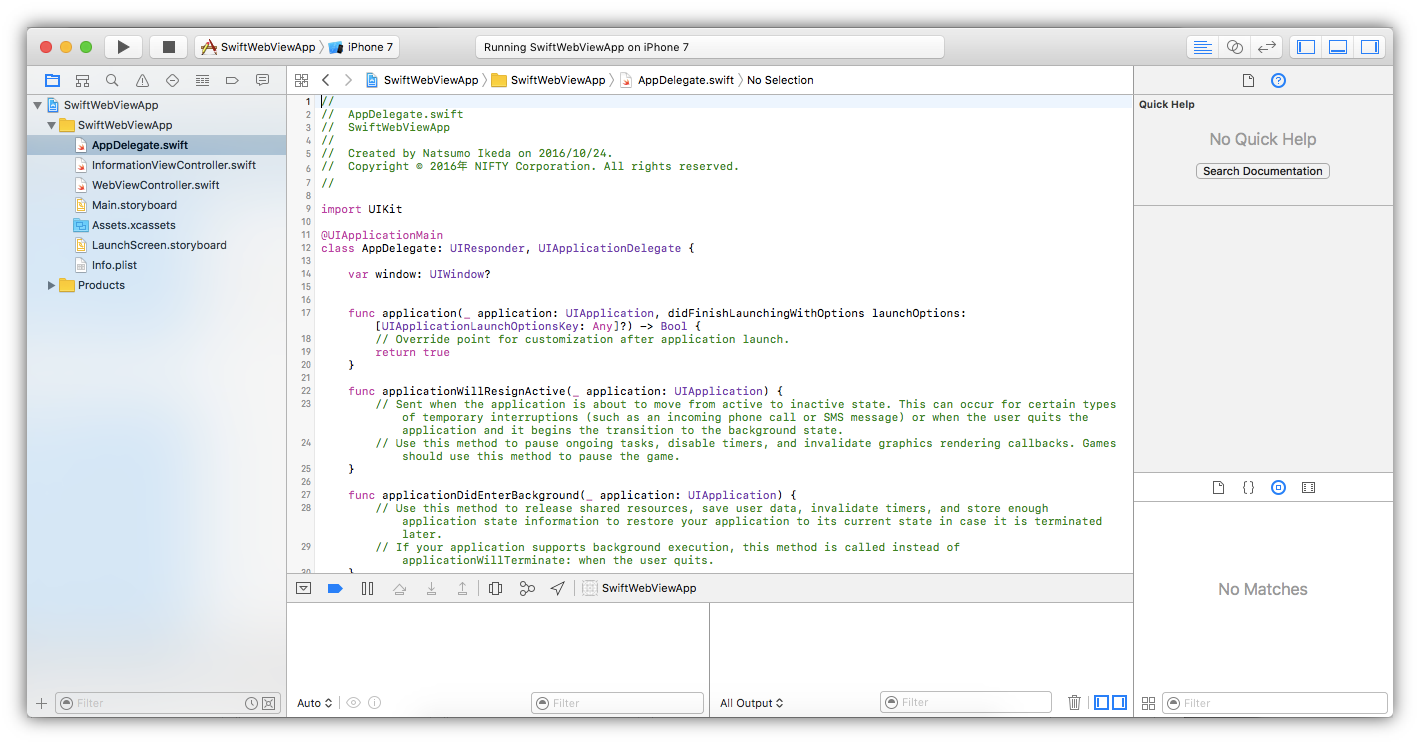
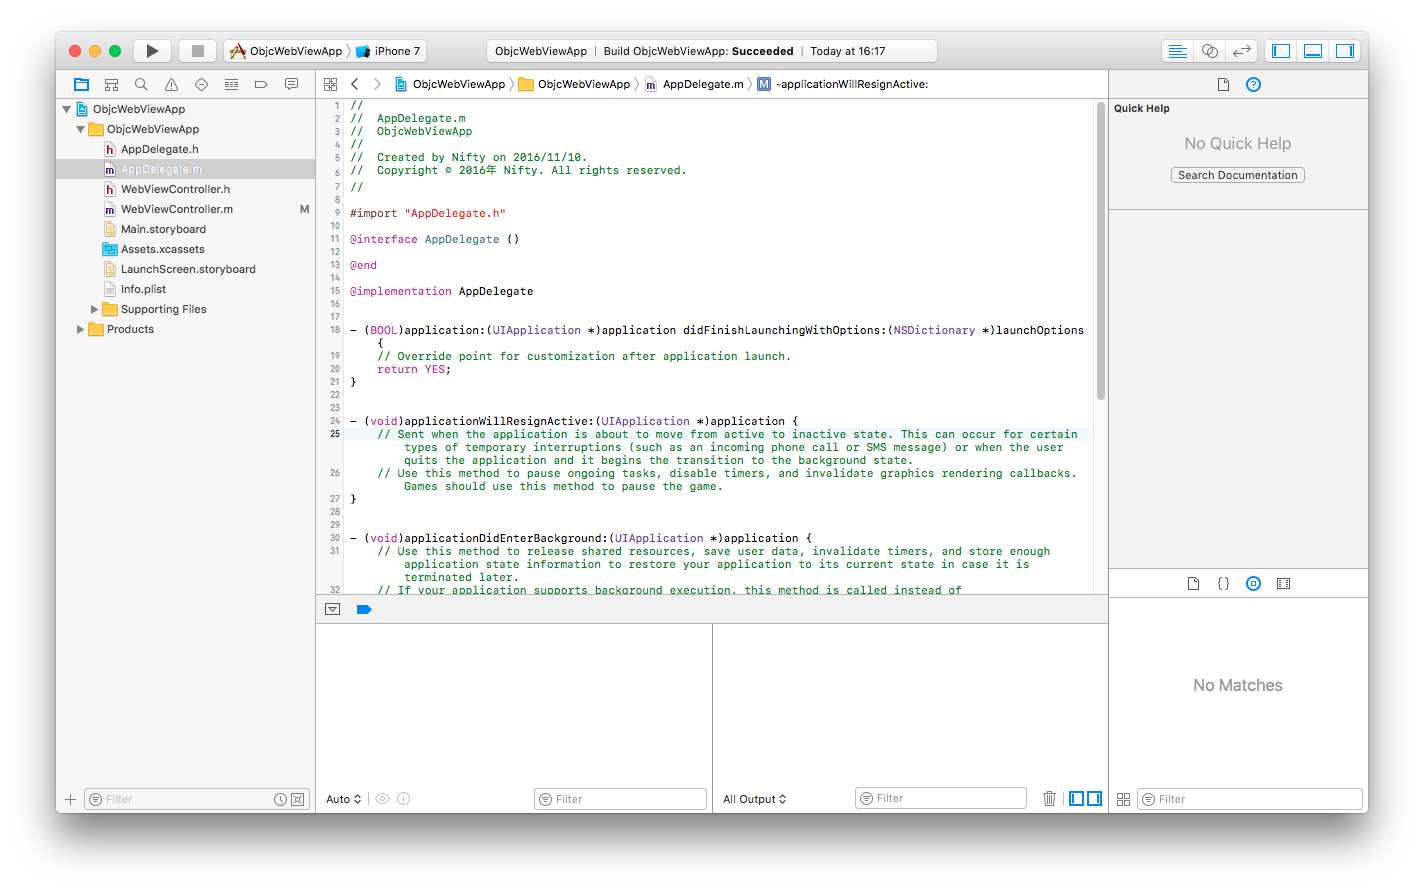
fix readme

Changed region(s): [[0.0, 0.0, 0.9915, 0.9879], [0.8366, 0.7409, 0.9296, 0.8027], [0.2169, 0.7718, 0.2479, 0.8027]]

diff --git a/ObjcWebViewApp/WebViewController.m b/ObjcWebViewApp/WebViewController.m
@@ -7,7 +7,6 @@
 //
 
 #import "WebViewController.h"
-#import <UIKit/UIView.h>
 
 @interface WebViewController ()
 // WebView

diff --git a/README.md b/README.md
@@ -1,5 +1,5 @@
-# 【iOS10対応 Swift】 mBaaSをWebサーバーとして使ってみよう！
-_2016/10/27作成_
+# 【iOS10対応 Objective-C】 mBaaSをWebサーバーとして使ってみよう！
+_2016/11/10作成_
 ![画像1](/readme-img/001.png)
 
 ## 概要
@@ -14,10 +14,10 @@ _2016/10/27作成_
 ![画像2](/readme-img/002.png)
 
 ## 動作環境
-* Mac OS X 10.12(Sierra)
-* Xcode ver. 8.0
-* Simulator ver. 10.0
- * iPhone7
+* Mac OS X 10.11.6(El Capitan)
+* Xcode ver. 8.1
+* iPhone5 iOS 9.3.5
+* iPhone6s iOS 10.0.1
 
 ※上記内容で動作確認をしています。
 
@@ -33,7 +33,7 @@ _2016/10/27作成_
 
 ### 2. GitHubからサンプルプロジェクトのダウンロード
 * 下記リンクをクリックしてプロジェクトをMacにダウンロードします
- * __[SwiftWebViewApp](https://github.com/natsumo/SwiftWebViewApp/archive/master.zip)__
+ * __[ObjcWebViewApp](https://github.com/NIFTYCloud-mbaas/ObjcWebViewApp/archive/master.zip)__
 
 ### 3. Webページの公開ファイルURLを作成する
 * 2.でダウンロードしたプロジェクトに「setting」フォルダがあります
@@ -74,12 +74,12 @@ _2016/10/27作成_
  * 「公開ファイルURL」は後ほど使用します
 
 ### 4. Xcodeでアプリを起動
-* ダウンロードしたフォルダを開き、「`SwiftWebViewApp.xcodeproj`」をダブルクリックしてXcode開きます
+* ダウンロードしたフォルダを開き、「`ObjcWebViewApp.xcodeproj`」をダブルクリックしてXcode開きます
 
 ![画像9](/readme-img/009.png)
 
 ### 5. 公開ファイルURLの設定
-* `WebViewController.swift`を編集します
+* `WebViewController.m`を編集します
 * 先程[ ニフティクラウドmobile backend ](http://mb.cloud.nifty.com/)のダッシュボード上で確認した`index.html`ファイルの「公開ファイルURL」を貼り付けます
 
 ![画像10](/readme-img/010.png)
@@ -107,38 +107,46 @@ https://mb.api.cloud.nifty.com/2013-09-01/applications/**APPLICATION_ID**/public
 今回は`index.html`に２つの画像（`mb.png`, `mb_information.png`）を表示する形式で簡易的に作成していますが、JavaScript（`js`ファイル）を作成しファイルストアに保存んすることで、`index.html`にスクリプトを埋め込むことも可能です。
 
 ### サンプルアプリについて
-WebViewの表示は、`WebViewController.swift`に記述しています
+WebViewの表示は、`WebViewController.m`に記述しています
 
-```swift
+```Objc
 //
-//  WebViewController.swift
-//  SwiftWebViewApp
+//  WebViewController.m
+//  ObjcWebViewApp
 //
-//  Created by Natsumo Ikeda on 2016/10/25.
-//  Copyright © 2016年 NIFTY Corporation. All rights reserved.
+//  Created by Nifty on 2016/11/10.
+//  Copyright © 2016年 Nifty. All rights reserved.
 //
-import UIKit
 
-class WebViewController: UIViewController {
-    // WebView
-    @IBOutlet weak var webView: UIWebView!
-    // index.htmlの公開URL
-    let url = "YOUR_HTML_PUBLIC_URL"
+#import "WebViewController.h"
 
-    override func viewDidLoad() {
-        super.viewDidLoad()
-        // スクロールを有効にする
-        webView.scrollView.contentOffset.y = 0
-        webView.scrollView.isScrollEnabled = true
+@interface WebViewController ()
+// WebView
+@property (weak, nonatomic) IBOutlet UIWebView *webView;
 
-        // webViewに表示する
-        let nsurl = NSURL(string: url)
-        let request = NSURLRequest(url: nsurl as! URL)
-        self.webView.loadRequest(request as URLRequest)
-    }
+@end
+
+// index.htmlの公開URL
+NSString *const Url = @"YOUR_HTML_PUBLIC_URL";
+
+@implementation WebViewController
+
+- (void)viewDidLoad {
+    [super viewDidLoad];
+
+    // スクロールを有効にする
+    CGPoint point = self.webView.scrollView.contentOffset;
+    point.y = 0;
+    self.webView.scrollView.contentOffset = point;
+    self.webView.scrollView.scrollEnabled = YES;
+
+    // webViewに表示する
+    NSURL *nsurl = [NSURL URLWithString:Url];
+    NSURLRequest *request = [NSURLRequest requestWithURL:nsurl];
+    [self.webView loadRequest:request];
 }
 ```
 
 ## 参考
-* 同じ内容の【Objective-C】版もご用意しています
- * https://github.com/NIFTYCloud-mbaas/ObjcWebViewApp
+* 同じ内容の【Swift】版もご用意しています
+ * https://github.com/NIFTYCloud-mbaas/SwiftWebViewApp
